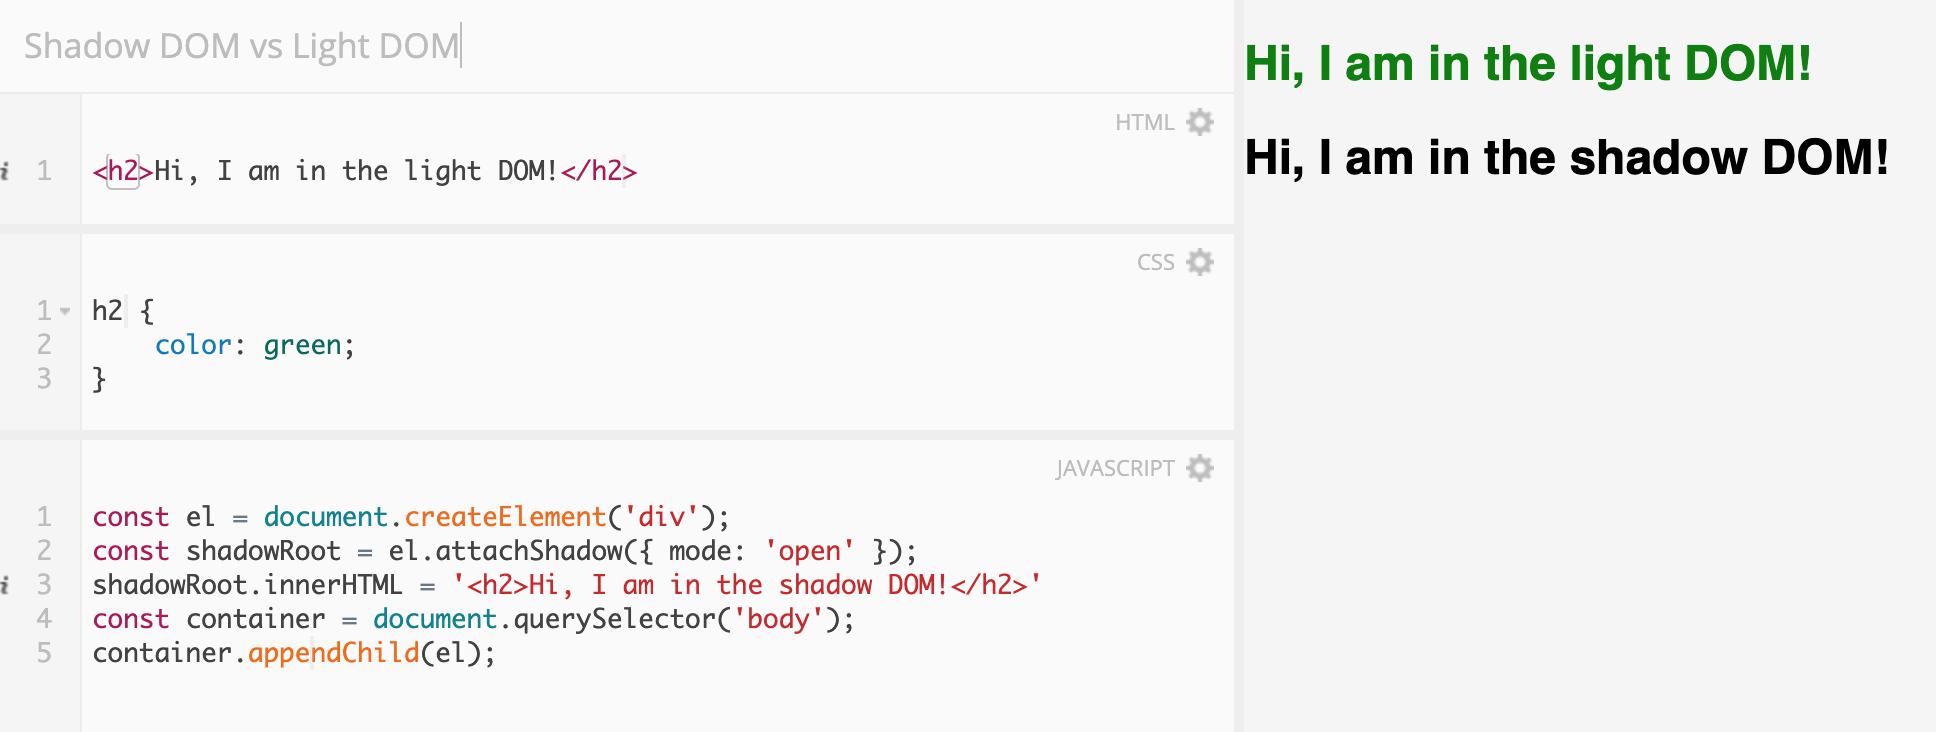
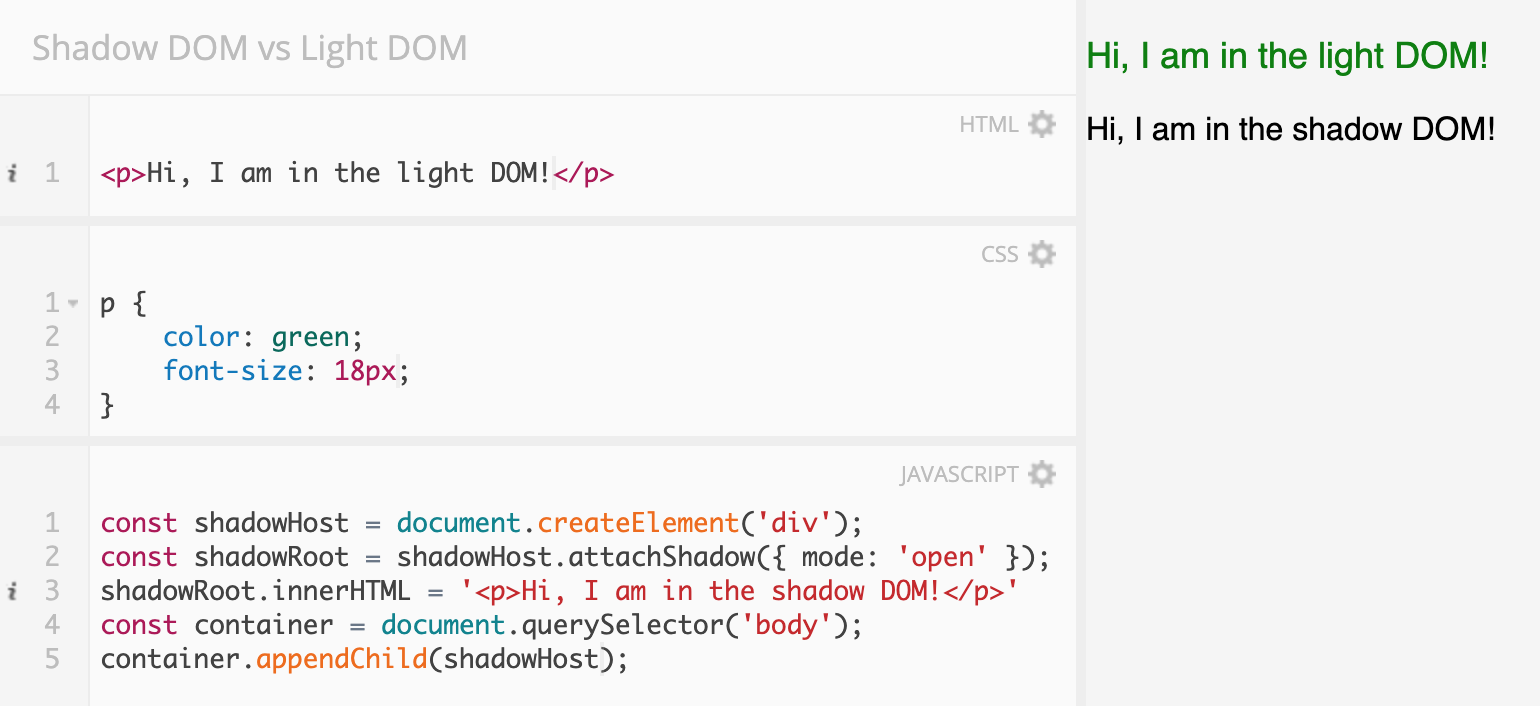
Add different code examples

diff --git a/index.html b/index.html
@@ -350,36 +350,6 @@
           </section>
         </section>
 
-        <!-- TODO: add code examples, border etc -->
-        <section>
-          <section><h1>Let's write some code!</h1></section>
-          <section>
-            <h2>Regular HTML & CSS in light DOM</h2>
-            <img alt="html and css code" src="./assets/code1.png" />
-          </section>
-          <section>
-            <h2>Add the shadow DOM using JavaScript</h2>
-            <pre>
-              <code class="hljs">
-const el = document.createElement('div');
-const shadowRoot = el.attachShadow({ mode: 'open' });
-shadowRoot.innerHTML = '<h2>Hi, I am in the shadow DOM!</h2>'
-const container = document.querySelector('body');
-container.appendChild(el);
-              </code>
-            </pre>
-          </section>
-          <section>
-            <h2>Add in the shadow DOM</h2>
-            <img alt="html, js and css code" src="./assets/code2.png" />
-          </section>
-          <section>
-            <h2>Inspect element</h2>
-            <img alt="html, js and css code" src="./assets/code3.png" />
-          </section>
-          <!-- TODO: Add CSS the other way too? -->
-        </section>
-
         <section>
           <section><h2>The shadow DOM simplifies CSS.</h2></section>
           <section>
@@ -441,6 +411,70 @@ span {
           </section>
         </section>
 
+        <!-- CODE -->
+        <section>
+          <section><h1>Let's write some code!</h1></section>
+          <section>
+            <h2>Regular HTML & CSS in light DOM</h2>
+            <img alt="html and css code" src="./assets/code1.png" />
+          </section>
+          <section>
+            <h2>Add the shadow DOM using JavaScript</h2>
+            <pre>
+              <code class="hljs">
+// Create shadow host (in light DOM)
+const shadowHost = document.createElement('div');
+
+// Create shadow root and attach to shadow host
+const shadowRoot = shadowHost.attachShadow({ mode: 'open' });
+shadowRoot.innerHTML = '<p>Hi, I am in the shadow DOM!</p>'
+
+// Attach shadow host to the body
+const container = document.querySelector('body');
+container.appendChild(shadowHost);
+              </code>
+            </pre>
+          </section>
+          <section>
+            <h2>Add in the shadow DOM</h2>
+            <img alt="html, js and css code" src="./assets/code2.png" />
+          </section>
+          <section>
+            <h2>Inspect element</h2>
+            <img alt="html, js and css code" src="./assets/code3.png" />
+          </section>
+          <section>
+            <h2>Add style to shadow DOM using JavaScript</h2>
+            <pre>
+              <code class="hljs">
+// Create shadow host (in light DOM)
+const shadowHost = document.createElement('div');
+
+// Create shadow root and attach to shadow host
+const shadowRoot = shadowHost.attachShadow({ mode: 'open' });
+shadowRoot.innerHTML = '<p>Hi, I am in the shadow DOM!</p>'
+
+// Attach shadow host to the body
+const container = document.querySelector('body');
+container.appendChild(shadowHost);
+
+// Style the shadow DOM
+const style = document.createElement('style');
+style.textContent = `
+  p {
+    text-decoration: underline;
+  }
+`
+shadowRoot.appendChild(style)
+              </code>
+            </pre>
+          </section>
+          <section>
+            <h2>Add style in the shadow DOM</h2>
+            <img alt="html, js and css code" src="./assets/code4.png" />
+          </section>
+        </section>
+
         <section>
           <section><h2>A note on accessibility...</h2></section>
           <section>
@@ -455,8 +489,10 @@ span {
         <section>
           <h2>Final takeaways</h2>
           <ol>
-            <li class="fragment">Takeaway 1</li>
-            <li class="fragment">Takeaway 2</li>
+            <li class="fragment">
+              The shadow DOM is part of the web components specifications
+            </li>
+            <li class="fragment">The shadow DOM</li>
             <li class="fragment">Takeaway 3</li>
           </ol>
         </section>
